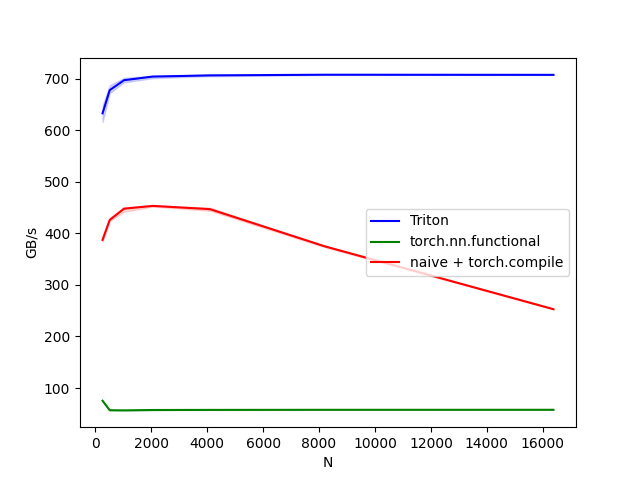
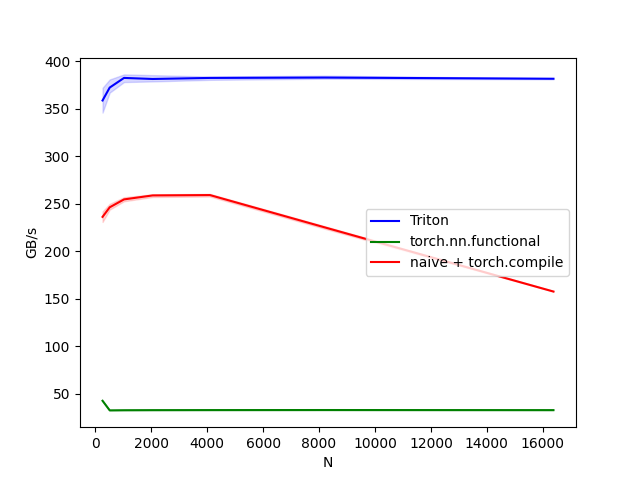
residual connection forward pass

diff --git a/benchmarks/results.html b/benchmarks/results.html
@@ -1,6 +1,4 @@
 <html><body>
-<image src="cos_norm_fwd_fp16.png"/>
-<image src="cos_norm_fwd_fp32.png"/>
-<image src="cos_norm_bwd_fp16.png"/>
-<image src="cos_norm_bwd_fp32.png"/>
+<image src="resid_connect_fwd_fp16.png"/>
+<image src="resid_connect_fwd_fp32.png"/>
 </body></html>

diff --git a/kernels/resid_connect.py b/kernels/resid_connect.py
@@ -1,0 +1,205 @@
+import math
+
+import torch
+#print(torch.__version__)
+import torch.nn as nn
+import torch.nn.functional as F
+
+# lets us cache a ton of different kernels when benchmarking
+import torch._dynamo
+torch._dynamo.config.cache_size_limit = 64  # Increase from default of 8
+
+import triton
+import triton.language as tl
+
+DEVICE = torch.device(f'cuda:{torch.cuda.current_device()}')
+
+from cos_norm import cosine_norm_forward_naive
+
+@torch.compile
+def resid_connect_fwd_naive(h, h_eigen, alpha):
+    """
+    h & h_eigen: shape (B, N, D) assuming transformer
+    alpha: shape (D)
+    """
+    h_eigen = cosine_norm_forward_naive(h_eigen)
+    h = cosine_norm_forward_naive(h + alpha * (h_eigen - h))
+    return h
+
+
+@triton.jit
+def resid_connect_fwd_kernel(
+    h_ptr, h_eigen_ptr, alpha_ptr, out_ptr,
+    stride_M, stride_N,
+    N,
+    BLOCK_SIZE: tl.constexpr
+):
+    row = tl.program_id(0)
+    h_ptr += row * stride_M
+    h_eigen_ptr += row * stride_M
+    out_ptr += row * stride_M
+    #norm_ptr += row # TODO add in norm storing for bwd pass later
+
+    cols = tl.arange(0, BLOCK_SIZE) * stride_N # stride since we never asserted x.is_contiguous()
+    mask = cols < N
+
+    h = tl.load(h_ptr + cols, mask=mask, other=0.).to(tl.float32)
+    h_eigen = tl.load(h_eigen_ptr + cols, mask=mask, other=0.).to(tl.float32)
+    alpha = tl.load(alpha_ptr + cols, mask=mask, other=0.).to(tl.float32)
+
+    # compute L_2 norm & normalize h_eigen
+    eps: tl.constexpr = 1e-12
+    inf: tl.constexpr = 1e12
+    h_eigen_normed = h_eigen / tl.clamp(tl.sqrt(tl.sum(h_eigen * h_eigen, axis=0)), eps, inf)
+
+    # movement along hypersphere residual connection
+    out_ = h + (alpha * (h_eigen_normed - h))
+
+    # normalize output
+    out = out_ / tl.clamp(tl.sqrt(tl.sum(out_ * out_, axis=0)), eps, inf)
+
+    #tl.store(norm_ptr, norm)
+    tl.store(out_ptr + cols, out.to(out_ptr.type.element_ty), mask=mask)
+
+
+# used to derive our block size
+properties = triton.runtime.driver.active.utils.get_device_properties(DEVICE.index)
+sram_per_sm = properties["max_shared_mem"]
+
+@torch.compile(fullgraph=True)
+def resid_connect_fwd_triton(h, h_eigen, alpha):
+    assert all([x.device == DEVICE for x in [h, h_eigen, alpha]])
+    assert h.shape == h_eigen.shape
+    assert h.stride() == h_eigen.stride()
+    assert alpha.shape[0] == h.shape[-1]
+    M, N = h.reshape(-1, h.shape[-1]).shape
+
+    # this kernel is designed for normalizing vectors that fit in SRAM
+    max_entries = sram_per_sm // h.element_size()
+    block_size = triton.next_power_of_2(N)
+    assert max_entries >= block_size, f"cosine norm kernel only supports vectors up to {max_entries}"
+    # H100s have 256kb of SRAM per SM so this would fit a model dimension of 64 thousand at fp32, plenty
+
+    # pre-allocate output
+    out = torch.empty_like(h)
+
+    resid_connect_fwd_kernel[(M,)](
+        h, h_eigen, alpha, out,
+        h.stride(-2), h.stride(-1),
+        N,
+        BLOCK_SIZE=block_size
+    )
+
+    return out
+
+
+def test_resid_connect(M, N, dtype, device=DEVICE, atol=1e-3, rtol=1e-3):
+    # create data
+    h_i = cosine_norm_forward_naive(
+        torch.randn((M, N), dtype=dtype, device=device, requires_grad=False)
+    )
+    h_eigen = torch.randn((M, N), dtype=dtype, device=device, requires_grad=False)
+    alpha = torch.randn(N, dtype=dtype, device=device, requires_grad=False)
+
+    # run each
+    h_iplus1_naive = resid_connect_fwd_naive(h_i, h_eigen, alpha)
+    h_iplus1_triton = resid_connect_fwd_triton(h_i, h_eigen, alpha)
+
+    # test with try/except to catch failures
+    import os
+    heatmap_path = './kernels/resid_connect_heatmap.png'
+    try:
+        torch.testing.assert_close(h_iplus1_naive, h_iplus1_triton, atol=atol, rtol=rtol)
+        print(f"✓ passed test (M={M}, N={N}, dtype={dtype})")
+        
+        # Delete old heatmap if test passes and file exists
+        if os.path.exists(heatmap_path):
+            os.remove(heatmap_path)
+            print(f"Deleted old heatmap file: {heatmap_path}")
+            
+    except AssertionError as e:
+        print(f"✗ failed test (M={M}, N={N}, dtype={dtype})")
+        # Only create and save the heatmap visualization if test fails
+        import numpy as np
+        import matplotlib.pyplot as plt
+        # Convert to numpy arrays
+        actual = h_iplus1_triton.detach().cpu().numpy()
+        expected = h_iplus1_naive.detach().cpu().numpy()
+        # Compute differences and masks
+        abs_diff = np.abs(expected - actual)
+        abs_fail_mask = (abs_diff > atol).astype(np.int32)
+        plt.figure(figsize=(8, 6))
+        plt.imshow(abs_fail_mask, cmap="hot", aspect="auto")
+        plt.xlabel("Model Dimension")
+        plt.ylabel("Sequence Position")
+        plt.colorbar()
+        plt.title(f"Failed Test Heatmap (M={M}, N={N}, dtype={dtype})")
+        plt.savefig(heatmap_path)
+        plt.close()
+        
+        # Re-raise the exception
+        raise e
+
+
+
+def previous_power_two(n):
+    return int(math.log(n, 2))
+
+configs = []
+for mode in ["fwd"]:#, "bwd"]:
+    for dtype_bytes in [2, 4]:
+        configs.append(
+            triton.testing.Benchmark(
+                x_names=['N'],
+                x_vals=[2 ** i for i in range(8, previous_power_two(sram_per_sm // dtype_bytes))], 
+                line_arg='provider',
+                line_vals=['triton', 'naive'],
+                line_names=['Triton', 'naive + torch.compile'],
+                styles=[('blue', '-'), ('green', '-')],
+                ylabel='GB/s',
+                plot_name=f'resid_connect_{mode}_fp{8*dtype_bytes}',
+                args={"mode": mode, "dtype_bytes": dtype_bytes}, 
+            ))
+@triton.testing.perf_report(configs)
+def benchmark(N, provider, mode, dtype_bytes, device=DEVICE):
+    # create data
+    assert dtype_bytes in [2, 4]
+    dtype = torch.float16 if dtype_bytes == 2 else torch.float32
+    h = torch.randn((32*1024, N), dtype=dtype, device=device, requires_grad=False)
+    h_eigen = torch.randn((32*1024, N), dtype=dtype, device=device, requires_grad=False)
+    alpha = torch.randn(N, dtype=dtype, device=device, requires_grad=False)
+
+    # confidence itnerval for testing
+    quantiles = [0.5, 0.001, 0.999]
+
+    if provider == "triton":
+        fn = lambda: resid_connect_fwd_triton(h, h_eigen, alpha)
+    if provider == "naive":
+        fn = lambda: resid_connect_fwd_naive(h, h_eigen, alpha)
+    elif mode == "bwd":
+        y = fn()
+        dLdy = torch.randn_like(y)
+        if provider == "naive":
+            fn = lambda: cosine_norm_backward_naive(x, dLdy)
+        else:
+            fn = lambda: y.backward(dLdy, retain_graph=True)
+    
+    # benchmark
+    ms, min_ms, max_ms = triton.testing.do_bench(fn, quantiles=quantiles)
+    gbps = lambda ms: (4 if mode == "fwd" else 3) * h.numel() * h.element_size() * 1e-9 / (ms * 1e-3)
+    return gbps(ms), gbps(max_ms), gbps(min_ms)
+
+
+if __name__ == "__main__":
+    # always run unit-tests
+    test_resid_connect(64, 64, torch.float32)
+    test_resid_connect(2048, 768, torch.float16)
+    test_resid_connect(2048, 8192, torch.float16)
+    test_resid_connect(2048, 768, torch.float32)
+    test_resid_connect(2048, 8192, torch.float32)
+
+    # Only run benchmark if explicitly requested
+    import sys
+    if len(sys.argv) > 1 and sys.argv[1] == "--benchmark":
+        benchmark.run(save_path='./benchmarks/', print_data=False)
+    

diff --git a/kernels/test.py b/kernels/test.py
@@ -1,0 +1,44 @@
+import math
+
+import torch
+#print(torch.__version__)
+import torch.nn as nn
+import torch.nn.functional as F
+
+import triton
+import triton.language as tl
+
+DEVICE = torch.device(f'cuda:{torch.cuda.current_device()}')
+
+import triton
+from triton import language as tl
+
+@triton.jit
+def add_kernel(
+    in_ptr0,
+    in_ptr1,
+    out_ptr,
+    n_elements,
+    BLOCK_SIZE: "tl.constexpr",
+):
+    pid = tl.program_id(axis=0)
+    block_start = pid * BLOCK_SIZE
+    offsets = block_start + tl.arange(0, BLOCK_SIZE)
+    mask = offsets < n_elements
+    x = tl.load(in_ptr0 + offsets, mask=mask)
+    y = tl.load(in_ptr1 + offsets, mask=mask)
+    output = x + y
+    tl.store(out_ptr + offsets, output, mask=mask)
+
+@torch.compile(fullgraph=True)
+def add_fn(x, y):
+    output = torch.zeros_like(x)
+    n_elements = output.numel()
+    grid = lambda meta: (triton.cdiv(n_elements, meta["BLOCK_SIZE"]),)
+    add_kernel[grid](x, y, output, n_elements, BLOCK_SIZE=4)
+    return output
+
+x = torch.randn(4, device="cuda")
+y = torch.randn(4, device="cuda")
+out = add_fn(x, y)
+print(f"Vector addition of\nX:\t{x}\nY:\t{y}\nis equal to\n{out}")
